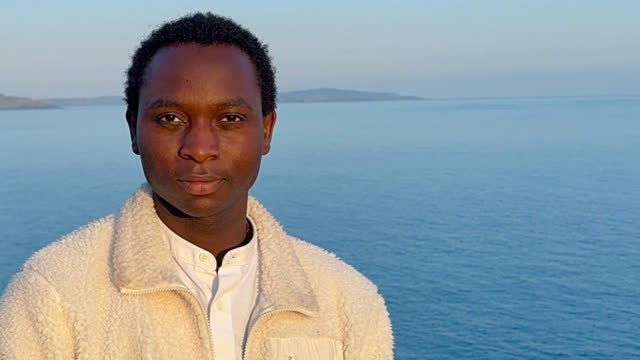
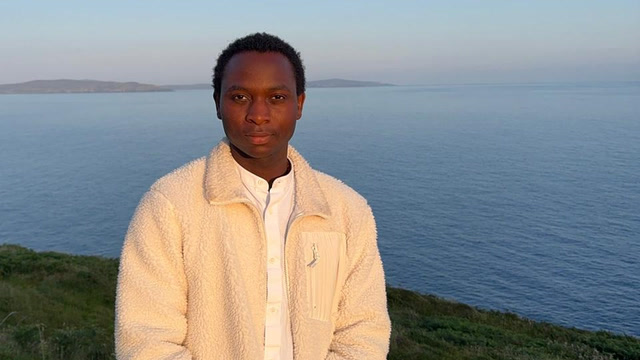
Recrop hero from full cliff portrait with mobile art direction
Desktop uses a left-biased landscape so face stays sharp and sea opens for copy; mobile serves a face-forward crop for the stacked strip.

diff --git a/src/components/pages/IndexPage.tsx b/src/components/pages/IndexPage.tsx
@@ -21,6 +21,10 @@ import hero960Jpg from "@/assets/desmond-hero-960.jpg";
 import hero960Webp from "@/assets/desmond-hero-960.webp";
 import hero640Jpg from "@/assets/desmond-hero-640.jpg";
 import hero640Webp from "@/assets/desmond-hero-640.webp";
+import heroMobileJpg from "@/assets/desmond-hero-mobile.jpg";
+import heroMobileWebp from "@/assets/desmond-hero-mobile.webp";
+import heroMobile640Jpg from "@/assets/desmond-hero-mobile-640.jpg";
+import heroMobile640Webp from "@/assets/desmond-hero-mobile-640.webp";
 
 function useSunyaCtaLabel(freeSuffix = "") {
   const { isActive } = useSubscription();
@@ -46,6 +50,20 @@ function HeroPhoto({
 }) {
   return (
     <picture>
+      {/* Mobile: face-forward crop for the short stacked strip */}
+      <source
+        media="(max-width: 767px)"
+        type="image/webp"
+        srcSet={`${heroMobile640Webp} 640w, ${heroMobileWebp} 960w`}
+        sizes={sizes}
+      />
+      <source
+        media="(max-width: 767px)"
+        type="image/jpeg"
+        srcSet={`${heroMobile640Jpg} 640w, ${heroMobileJpg} 960w`}
+        sizes={sizes}
+      />
+      {/* Desktop: left-biased landscape — subject left, sea open for copy */}
       <source
         type="image/webp"
         srcSet={`${hero640Webp} 640w, ${hero960Webp} 960w, ${heroWebp} 1280w`}
@@ -93,7 +111,7 @@ function Hero() {
         <HeroPhoto
           priority
           sizes="100vw"
-          className="absolute inset-0 h-full w-full object-cover object-left"
+          className="absolute inset-0 h-full w-full object-cover object-[center_28%] md:object-left md:object-center"
         />
       </div>
 
